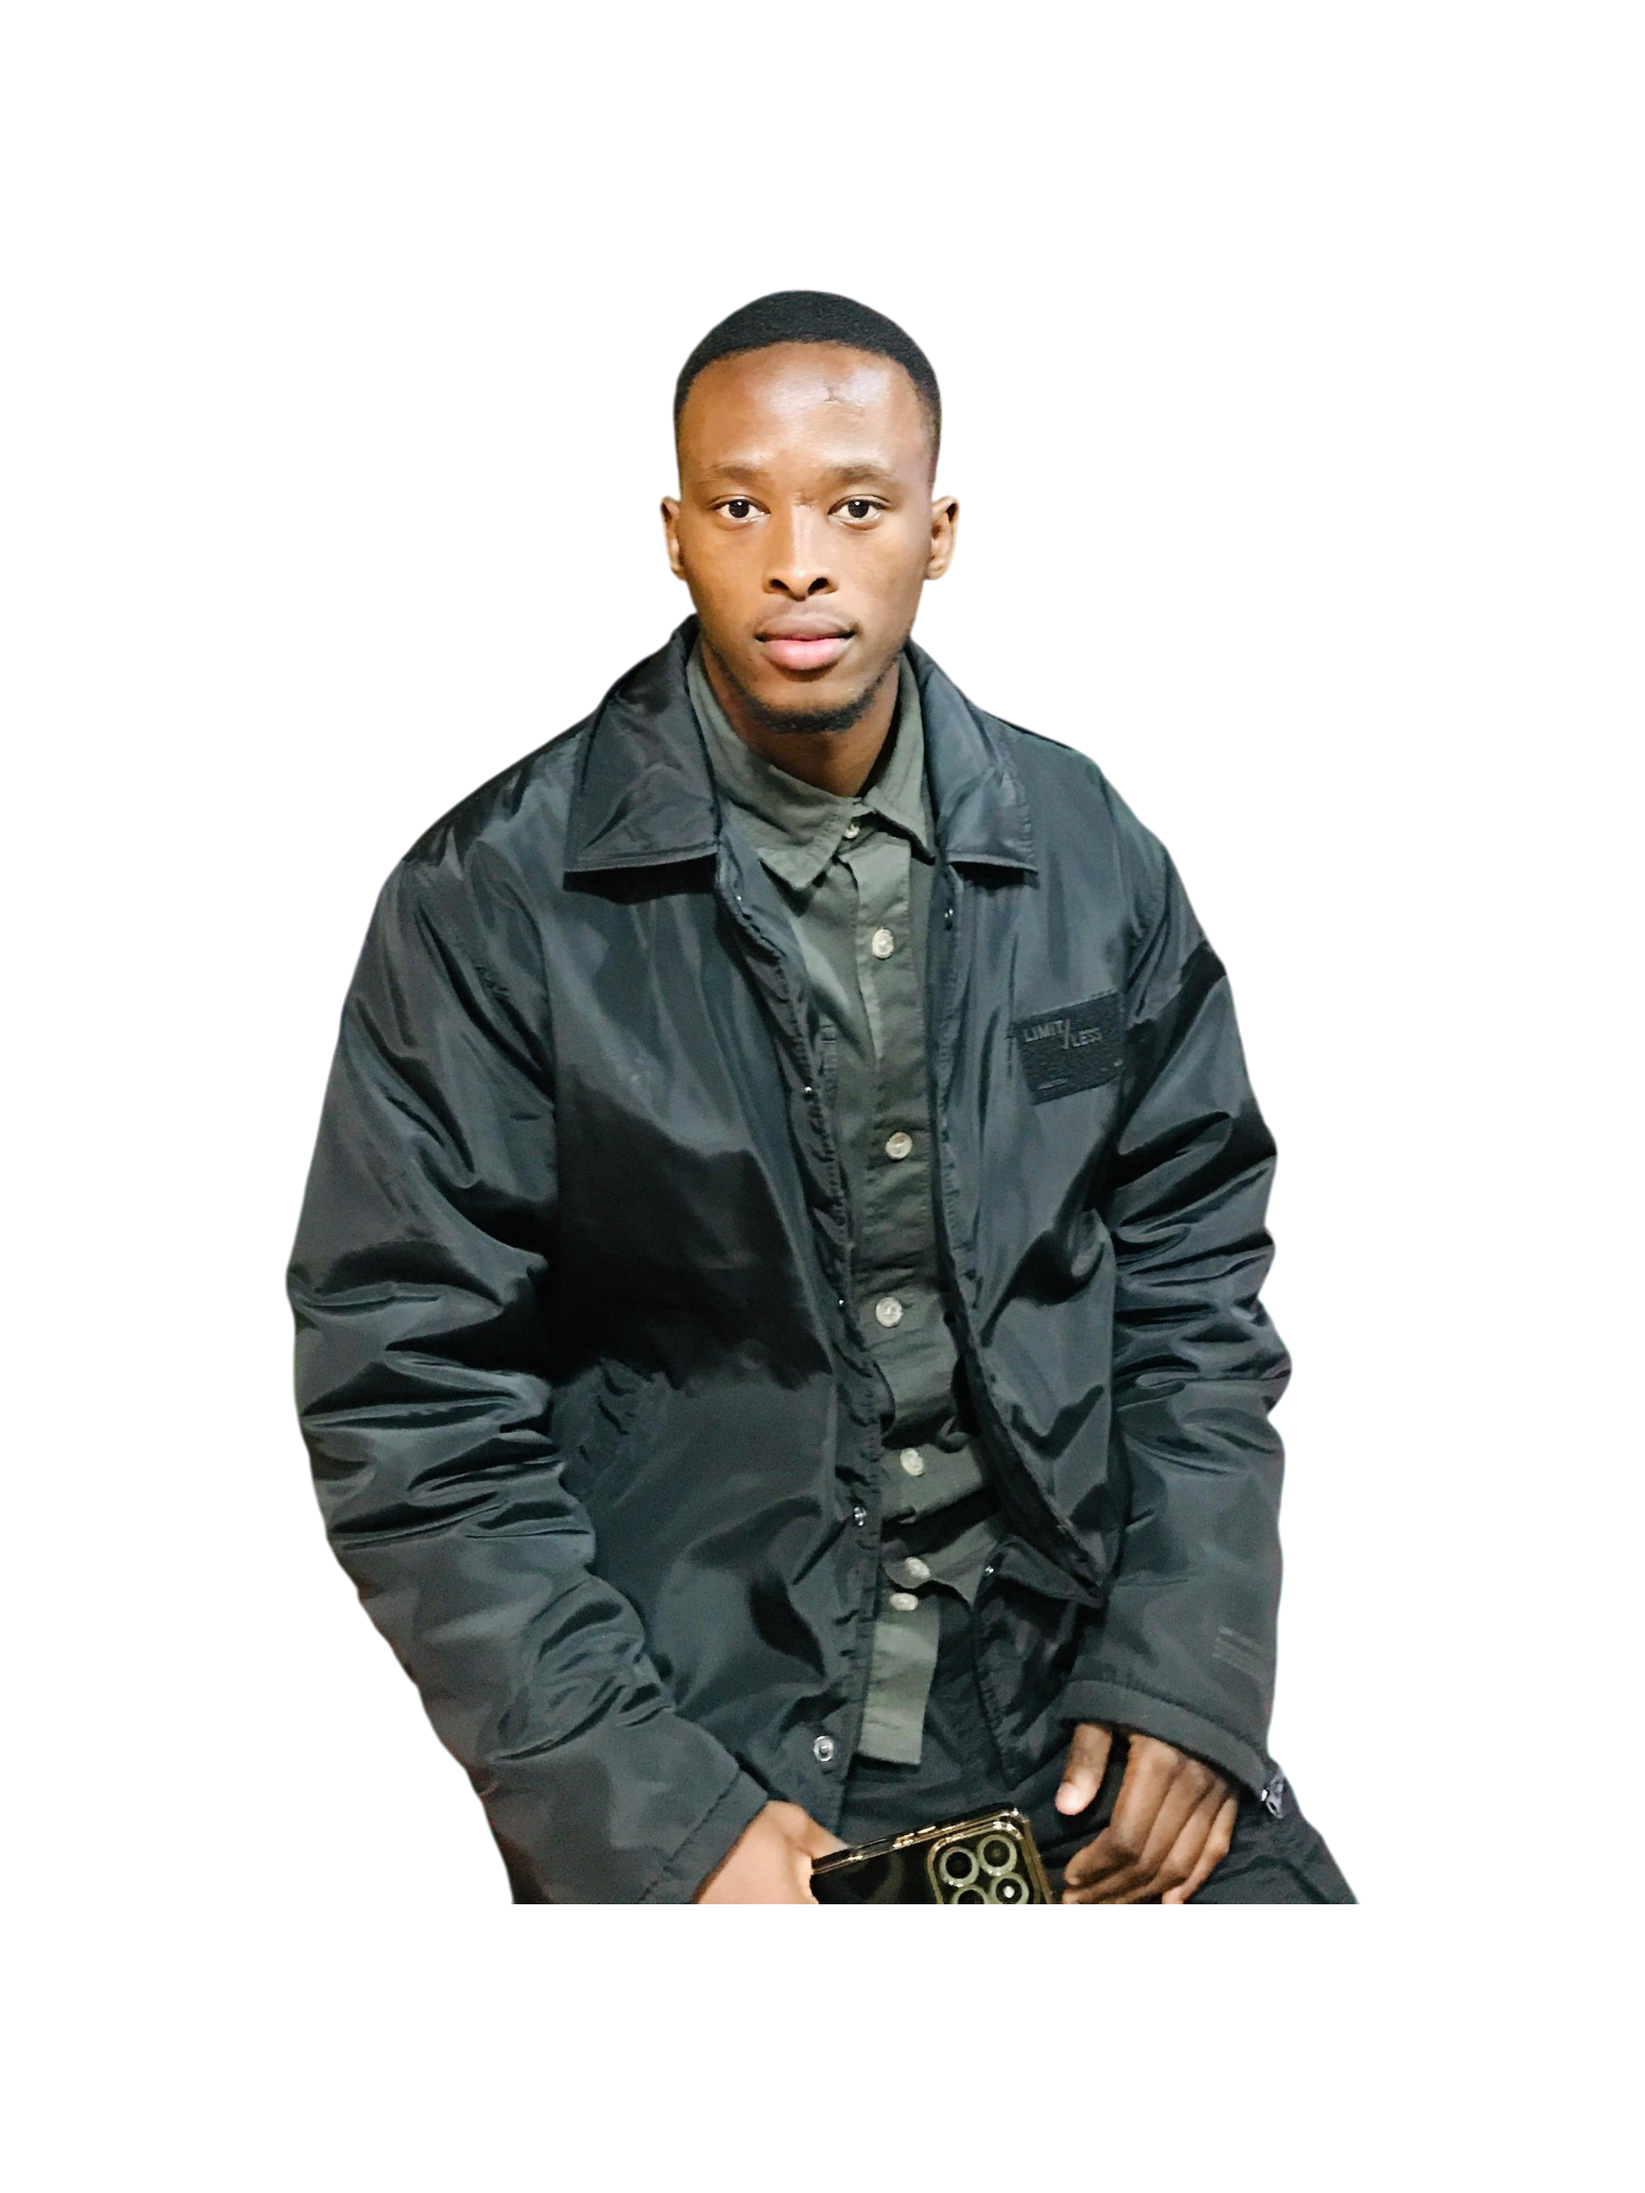
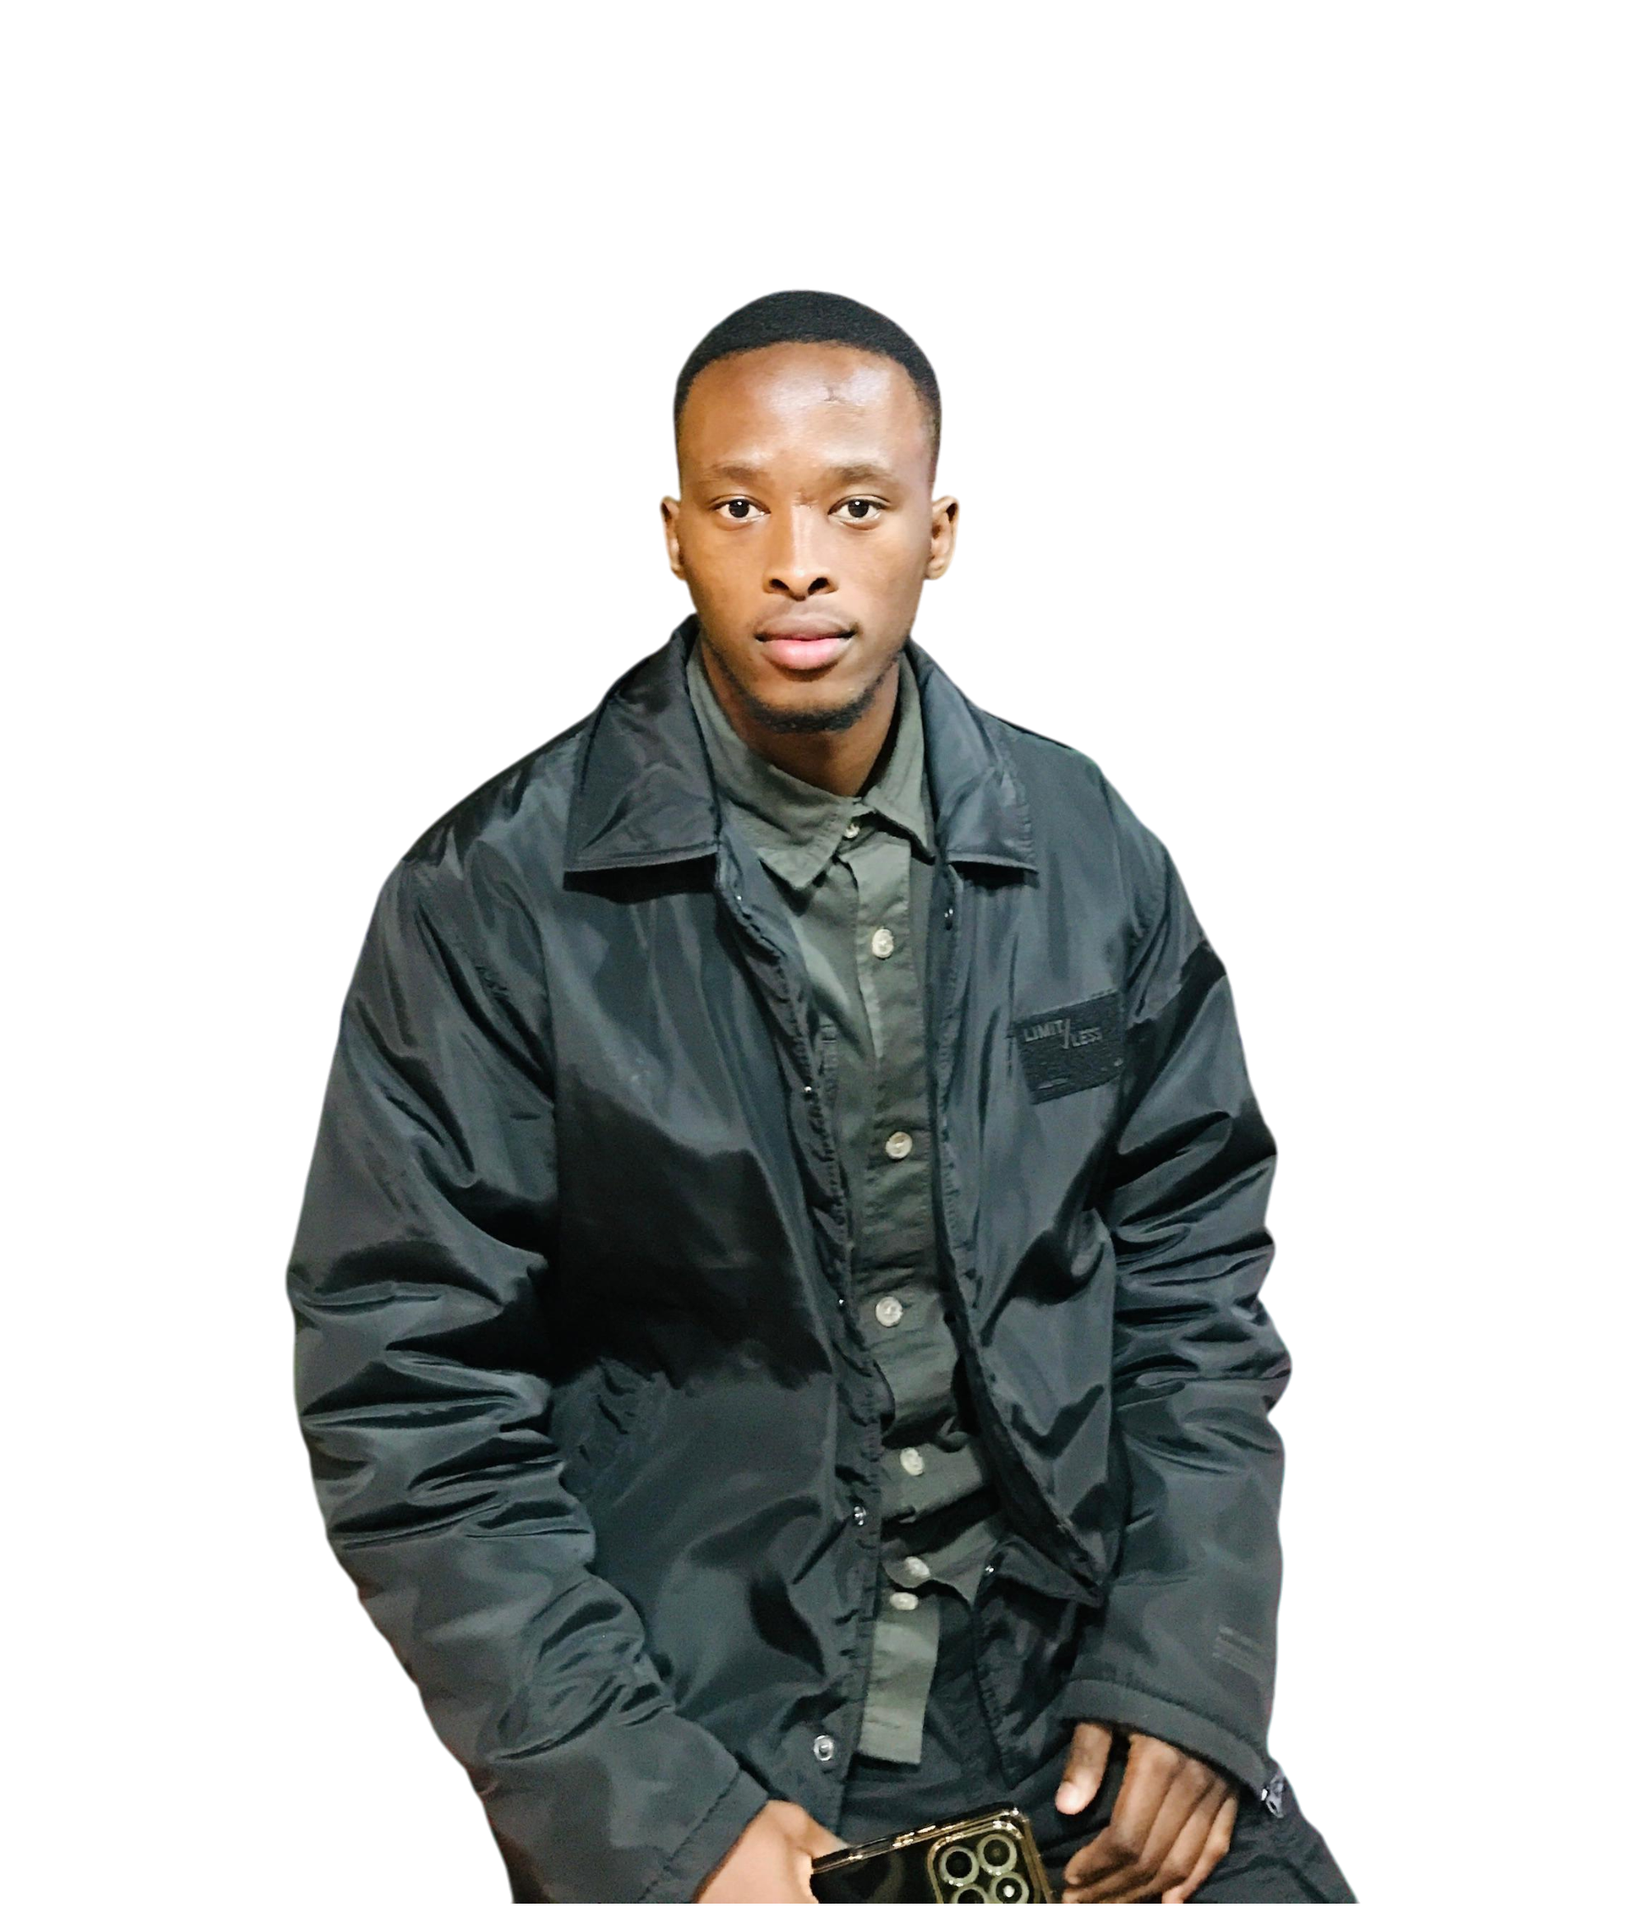
ENH: Enforce 960x842 hero image with responsive scaling

Changed region(s): [[0.155, 0.1236, 0.837, 1.0]]

diff --git a/css/style.css b/css/style.css
@@ -294,13 +294,19 @@ header.sticky .nav-bar {
   background: var(--hover-color);
 }
 
+/* ===== UPDATED: pixel-perfect but responsive hero image ===== */
 .home-container .home-img {
   position: relative;
+  width: min(960px, 100%);
+  height: auto;
+  aspect-ratio: 960 / 842;
 }
 
 .home-container .home-img img {
-  width: 90%;
-  transform: translate(0, 0);
+  width: 100%;
+  height: 100%;
+  object-fit: cover;
+  transform: none;
 }
 
 .home .scroll-down {
@@ -1312,11 +1318,16 @@ footer a {
 
   .home-container .home-img {
     position: absolute;
+    width: min(960px, 100%);
+    height: auto;
+    aspect-ratio: 960 / 842;
   }
 
   .home-container .home-img img {
-    width: 65%;
-    transform: translate(80px, -180px);
+    width: 100%;
+    height: 100%;
+    object-fit: cover;
+    transform: none;
   }
 
   .home .home-container .info {
